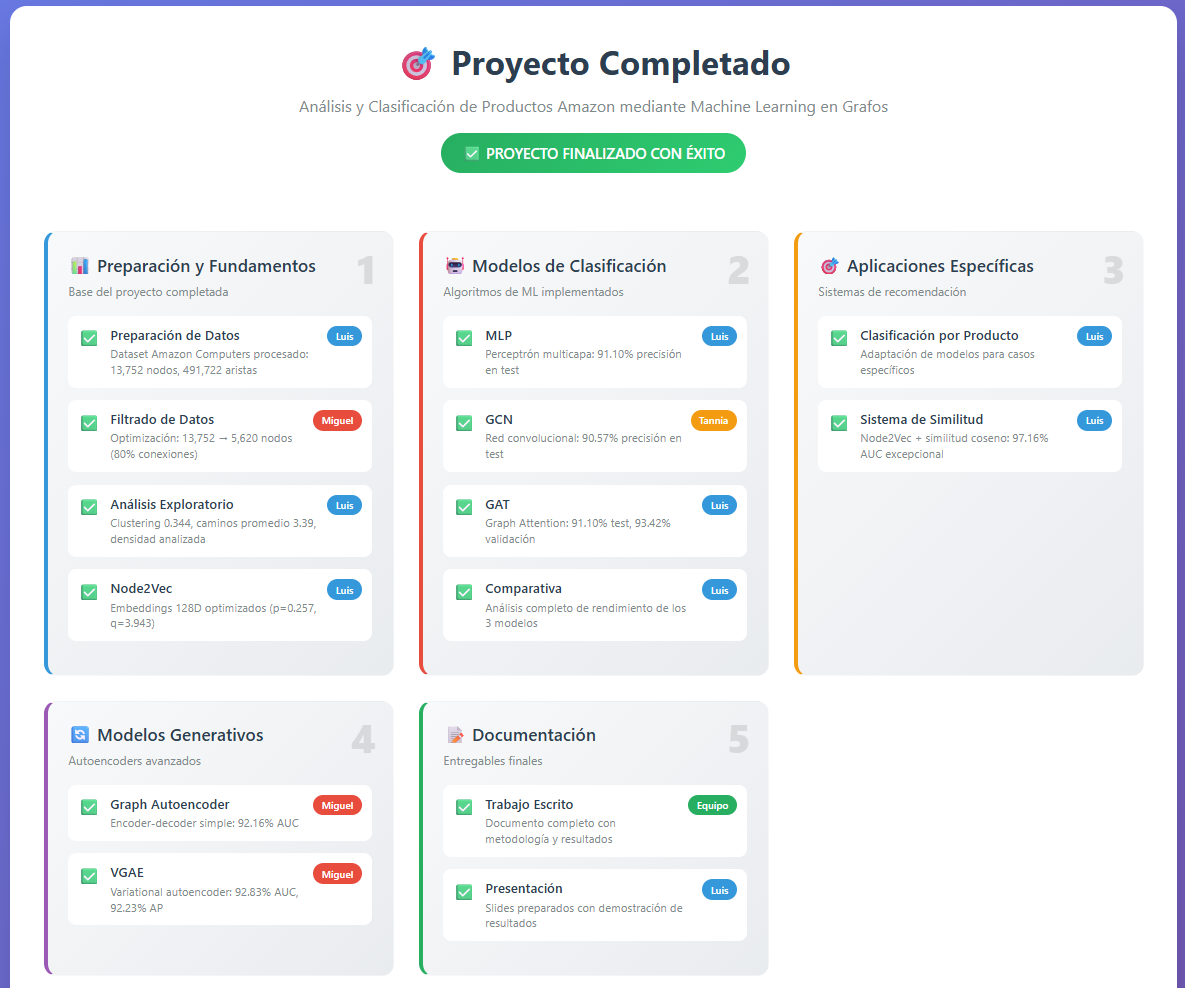
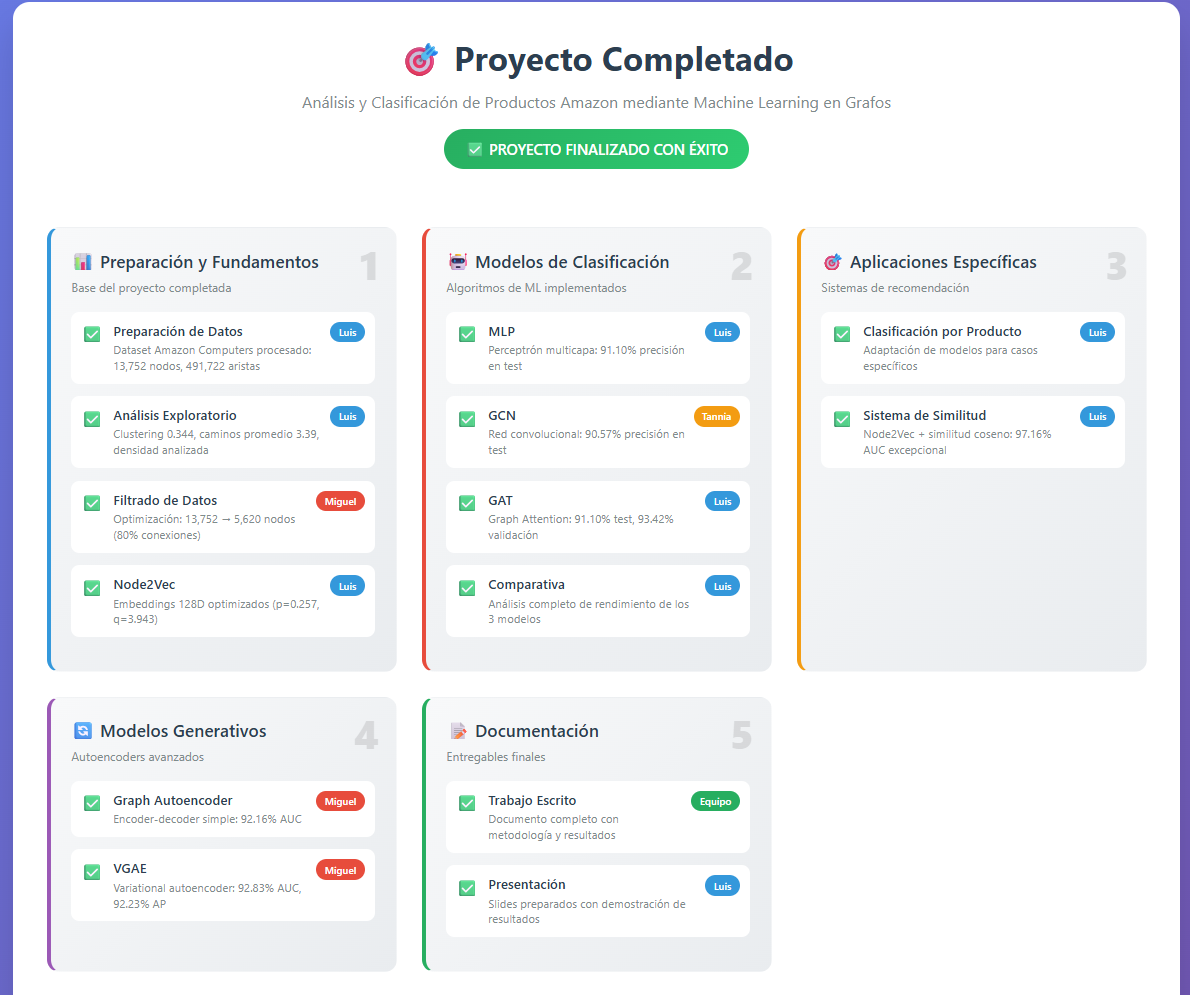
Readme con detalles de reporte de trabajo

diff --git a/P3 - Graph Machine Learning/pantallazo/workflow_diagram.html b/P3 - Graph Machine Learning/pantallazo/workflow_diagram.html
@@ -290,18 +290,18 @@
                     <li class="task-item">
                         <span class="task-icon">✅</span>
                         <div class="task-content">
-                            <div class="task-name">Filtrado de Datos</div>
-                            <div class="task-desc">Optimización: 13,752 → 5,620 nodos (80% conexiones)</div>
-                        </div>
-                        <span class="task-responsible miguel">Miguel</span>
-                    </li>
-                    <li class="task-item">
-                        <span class="task-icon">✅</span>
-                        <div class="task-content">
                             <div class="task-name">Análisis Exploratorio</div>
                             <div class="task-desc">Clustering 0.344, caminos promedio 3.39, densidad analizada</div>
                         </div>
                         <span class="task-responsible luis">Luis</span>
+                    </li>
+                                        <li class="task-item">
+                        <span class="task-icon">✅</span>
+                        <div class="task-content">
+                            <div class="task-name">Filtrado de Datos</div>
+                            <div class="task-desc">Optimización: 13,752 → 5,620 nodos (80% conexiones)</div>
+                        </div>
+                        <span class="task-responsible miguel">Miguel</span>
                     </li>
                     <li class="task-item">
                         <span class="task-icon">✅</span>

diff --git a/P3 - Graph Machine Learning/Readme.md b/P3 - Graph Machine Learning/Readme.md
@@ -166,4 +166,7 @@
 ###  DIAGRAMA EXPLICATIVO:
 
 ![alt text](./pantallazo/image.png)
+
+###  RESULTADOS CLAVE DEL PROYECTO:
+
 ![alt text](./pantallazo/image-1.png)
